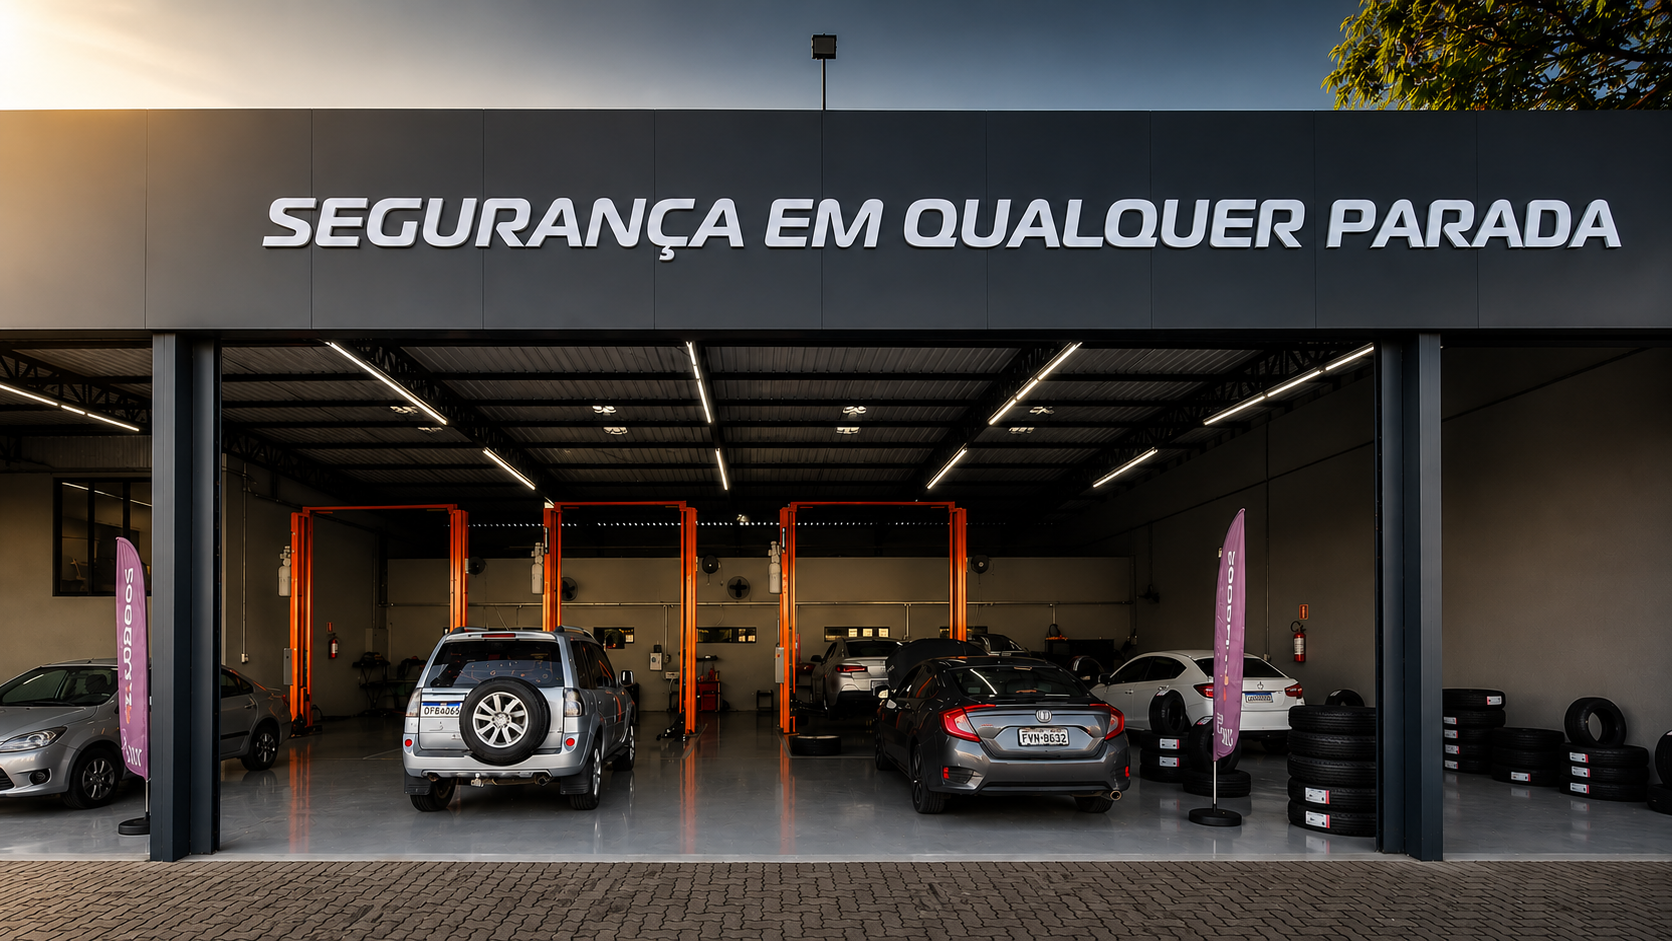
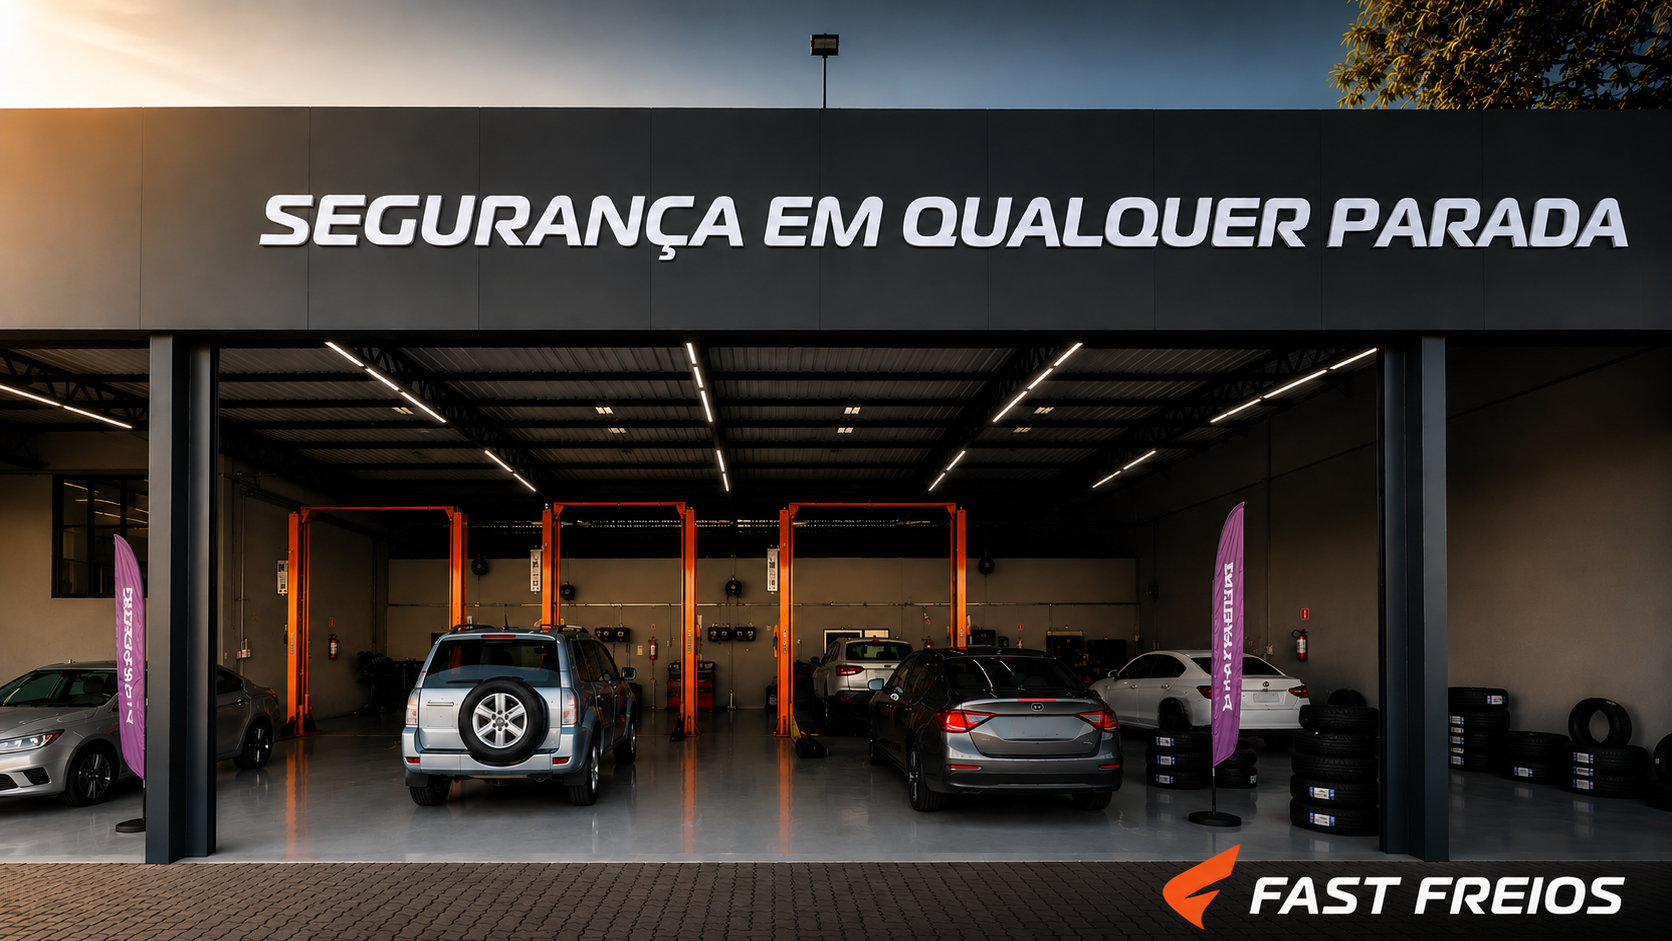
Atualiza fachada, horário de funcionamento e copy dos serviços
- Troca imagem da fachada para foto real da loja
- Melhora diagramação do horário (SEG-SEX / SÁB-DOM fechado)
- Atualiza copy dos serviços com marcas parceiras:
  - Discos: Fremax
  - Pastilhas: Frasle
  - Suspensão: Nakata
- Revisa fluido de freio (DOT por especificação da montadora)
- Clarifica reparação e instalação de módulo ABS
- Adiciona benefício de economia de combustível no alinhamento
- Nitrogênio: pressão estável por até 6 meses

diff --git a/src/components/site/Services.tsx b/src/components/site/Services.tsx
@@ -5,20 +5,20 @@ const services = [
   {
     icon: Disc3,
     title: "Pastilhas de Freio",
-    short: "Troca com peças de marcas premium e garantia real.",
-    expanded: "Trabalhamos com pastilhas Fremax, Fras-le e Nakata — marcas que você confere na Oficina Autorizada. Nosso técnico avalia o estado das suas pastilhas, explica o que foi encontrado e só substitui se realmente precisa. Troca com garantia de mão de obra.",
+    short: "Troca com peças Frasle de qualidade garantida.",
+    expanded: "Trabalhamos com pastilhas Frasle — marca reconhecida pela durabilidade e performance. Nosso técnico avalia o estado das suas pastilhas, explica o que foi encontrado e só substitui se realmente precisa. Troca com garantia de mão de obra e peça.",
   },
   {
     icon: Gauge,
     title: "Discos de Freio",
-    short: "Avaliação de espessura e substituição quando necessário.",
-    expanded: "Disco fora de medida? Substituímos com disco ou tambor novo Fremax, com retífica dos lábios para evitar vibração. Retífica de disco quando possível. Freio silencioso e sem trepidação na frenagem.",
+    short: "Verificação de medida, retífica ou substituição com Fremax.",
+    expanded: "Verificamos se o disco está fora de medida. Substituímos com discos Fremax quando necessário, ou fazemos retífica do disco quando ainda é possível. Resultado: freio silencioso e sem trepidação na frenagem.",
   },
   {
     icon: Droplets,
     title: "Fluido de Freio",
-    short: "Sangria e troca completa para resposta firme do pedal.",
-    expanded: "Fluido degradado é perigo invisível. Fazemos sangria completa do sistema — ar nas tubulações sai, pedal firme como novo. Utilizamos o DOT conforme especificação de cada montadora.",
+    short: "Troca com fluido DOT conforme especificação da montadora.",
+    expanded: "Fluido velho perde eficiência e coloca em risco. Fazemos sangria completa do sistema, eliminamos bolhas de ar e colocamos fluido DOT novo conforme a especificação de cada montadora. Pedal firme e resposta imediata.",
   },
   {
     icon: Wrench,
@@ -35,26 +35,26 @@ const services = [
   {
     icon: CircuitBoard,
     title: "Freio ABS",
-    short: "Diagnóstico eletrônico e reparo de módulo e sensores.",
-    expanded: "Luz do ABS acesa? Fazemos scan diagnóstico no módulo ABS, identificamos falha de sensor, anel ou módulo. Módulo do ABS — já temos a reparação e instalação necessária para seu veículo. Teste final antes da entrega.",
+    short: "Diagnóstico eletrônico, reparação e instalação do sistema.",
+    expanded: "Luz do ABS acesa? Fazemos diagnóstico eletrônico completo, identificamos falha de sensor, anel ou módulo. A Fast Freios já conta com reparação e instalação necessária para o sistema ABS do seu veículo. Teste final antes da entrega.",
   },
   {
     icon: Car,
     title: "Suspensão Completa",
-    short: "Amortecedores, molas, bandejas e buchas — tudo que mantém o carro firme na pista.",
-    expanded: "Amortecedor vazando, mola quebrada, bandeja com folga? Substituímos todo o sistema de suspensão com peças Nakata. Geometria e alinhamento pós-serviço incluso.",
+    short: "Amortecedores, molas, bandejas e buchas Nakata — tudo que mantém o carro firme na pista.",
+    expanded: "Amortecedor vazando, mola quebrada, bandeja com folga? Substituímos todo o sistema de suspensão com componentes Nakata. Geometria e alinhamento pós-serviço incluso.",
   },
   {
     icon: Sliders,
     title: "Alinhamento e Balanceamento",
-    short: "Corrige direção, reduz desgaste dos pneus e garante conforto na direção.",
-    expanded: "Direção puxando para um lado? Vibrando no volante? Alinhamos geometria 3D computadorizado e balanceamos rodas com pesos internos. Segurança e economia de combustível na mesma visita.",
+    short: "Corrige direção, reduz desgaste dos pneus e economiza combustível.",
+    expanded: "Direção puxando para um lado? Vibrando no volante? Alinhamos geometria 3D computadorizado e balanceamos rodas com pesos internos. Segurança, conforto e economia de combustível na mesma visita.",
   },
   {
     icon: Wind,
     title: "Calibração de Nitrogênio",
-    short: "Encha os pneus com nitrogênio puro: pressão mais estável e maior durabilidade.",
-    expanded: "Nitrogênio mantém a pressão estável por até 6 meses, reduz oxidação interna do pneu e evita variações por temperatura. Indicado para quem roda muito ou quer maior vida útil dos pneus com menor perda de pressão.",
+    short: "Pressão estável por até 6 meses, menor desgaste e mais segurança.",
+    expanded: "Nitrogênio mantém a pressão estável por até 6 meses, reduz oxidação interna do pneu e evita variações por temperatura. Indicado para quem roda muito ou quer maior durabilidade dos pneus com menor perda de pressão.",
   },
 ];
 

diff --git a/src/components/site/Footer.tsx b/src/components/site/Footer.tsx
@@ -84,12 +84,22 @@ export const Footer = () => (
 
         <div className="lg:col-span-2">
           <h4 className="font-display text-xl uppercase mb-5 text-foreground">Horário</h4>
-          <ul className="space-y-1 text-sm text-muted-foreground">
-            <li>Seg–Sex: 07:30 – 18h</li>
-            <li className="text-xs">12h–13h almoço</li>
-            <li className="mt-2">Sábado: Fechado</li>
-            <li>Domingo: fechado</li>
-          </ul>
+          <div className="space-y-3 text-sm">
+            <div className="flex items-center gap-3">
+              <span className="inline-flex items-center justify-center w-16 h-7 bg-primary/10 border border-primary/30 text-primary text-xs font-bold rounded">
+                SEG–SEX
+              </span>
+              <span className="text-foreground font-medium">07:30 – 18:00</span>
+            </div>
+            <p className="text-xs text-muted-foreground pl-[76px]">Intervalo: 12h – 13h</p>
+            
+            <div className="flex items-center gap-3 pt-2 border-t border-border/50">
+              <span className="inline-flex items-center justify-center w-16 h-7 bg-muted/30 border border-border text-muted-foreground text-xs font-bold rounded">
+                SÁB–DOM
+              </span>
+              <span className="text-muted-foreground">Fechado</span>
+            </div>
+          </div>
         </div>
       </div>
 

diff --git a/src/components/site/CtaBanner.tsx b/src/components/site/CtaBanner.tsx
@@ -32,25 +32,18 @@ export const CtaBanner = () => (
         </div>
       </div>
 
-      <div className="mt-14 pt-10 border-t border-primary-foreground/20 grid sm:grid-cols-3 gap-6">
+      <div className="mt-14 pt-10 border-t border-primary-foreground/20 grid sm:grid-cols-2 gap-6">
         <div className="flex items-start gap-3">
           <Clock className="h-5 w-5 mt-0.5" />
           <div>
-            <div className="font-display text-lg uppercase">Seg a Sex</div>
+            <div className="font-display text-lg uppercase">Seg–Sex</div>
             <div className="text-sm opacity-90">07:30 às 18:00</div>
           </div>
         </div>
         <div className="flex items-start gap-3">
           <Clock className="h-5 w-5 mt-0.5" />
           <div>
-            <div className="font-display text-lg uppercase">Sáb</div>
-            <div className="text-sm opacity-90">Fechado</div>
-          </div>
-        </div>
-        <div className="flex items-start gap-3">
-          <Clock className="h-5 w-5 mt-0.5" />
-          <div>
-            <div className="font-display text-lg uppercase">Domingo</div>
+            <div className="font-display text-lg uppercase">Sáb–Dom</div>
             <div className="text-sm opacity-90">Fechado</div>
           </div>
         </div>